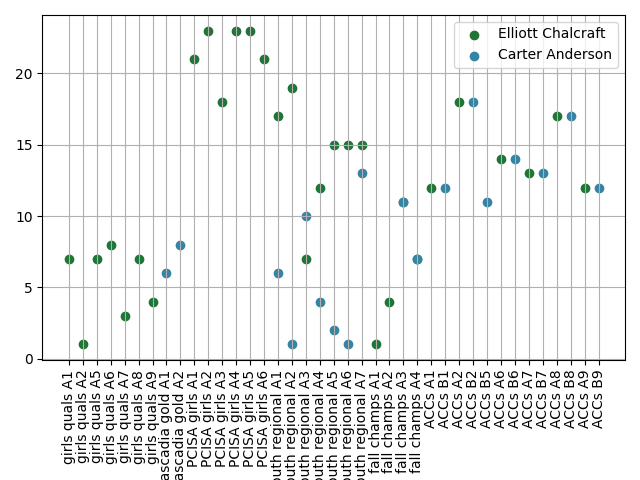
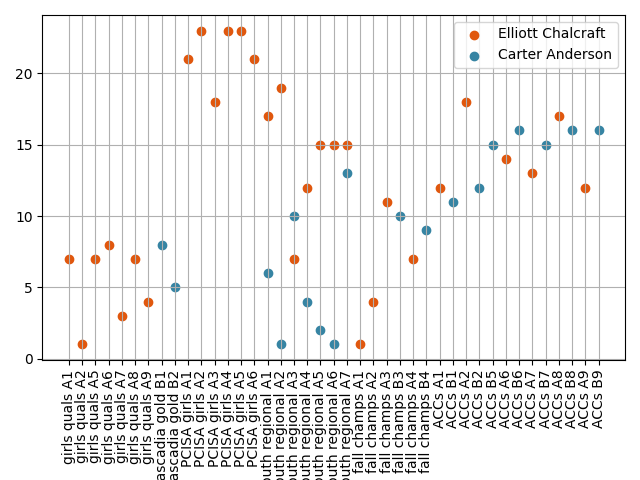
fixed data collection

Changed region(s): [[0.0938, 0.0312, 0.9688, 1.0], [0.9062, 0.375, 0.9688, 0.4062]]

diff --git a/graphwhy.py b/graphwhy.py
@@ -196,10 +196,10 @@ for i, regatta in enumerate(regatta_names):
                     'td', class_="skipper")
                 races = skipper2.next_sibling.text.split(",")
                 races = [i.split("-", 1) for i in races]
-                addPerson(skipper2.text.split(" '")[0],"Skipper",'B', teamHome, races, teamAScores, teamHomes, betterVenue)
+                addPerson(skipper2.text.split(" '")[0],"Skipper",'B', teamHome, races, teamBScores, teamHomes, betterVenue)
             races = skipper.next_sibling.text.split(",")
             races = [i.split("-", 1) for i in races]
-            addPerson(skipper.text.split(" '")[0],"Skipper",'A', teamHome, races, teamAScores, teamHomes, betterVenue)
+            addPerson(skipper.text.split(" '")[0],"Skipper",'B', teamHome, races, teamBScores, teamHomes, betterVenue)
 
         for crew in teamNameEl.parent.find_all('td', class_="crew"):
             races = crew.next_sibling.text.split(",")
@@ -210,14 +210,14 @@ for i, regatta in enumerate(regatta_names):
                     'td', class_="crew")
                 races = crew2.next_sibling.text.split(",")
                 races = [i.split("-", 1) for i in races]
-                addPerson(crew2.text.split(" '")[0],"Crew",'B', teamHome, races, teamAScores, teamHomes, betterVenue)
+                addPerson(crew2.text.split(" '")[0],"Crew",'B', teamHome, races, teamBScores, teamHomes, betterVenue)
 
                 if crew2.parent.next_sibling and crew2.parent.next_sibling.find_all('td', class_="crew"):
                     crew3 = crew2.parent.next_sibling.find(
                         'td', class_="crew")
                     races = crew3.next_sibling.text.split(",")
                     races = [i.split("-", 1) for i in races]
-                    addPerson(crew3.text.split(" '")[0],"Crew",'B', teamHome, races, teamAScores, teamHomes, betterVenue)
+                    addPerson(crew3.text.split(" '")[0],"Crew",'B', teamHome, races, teamBScores, teamHomes, betterVenue)
 
 def compare(first, second):
     # print("First", first, "Second", second)
@@ -237,7 +237,7 @@ def compare(first, second):
     else:
         return 0
 
-names = {"Elliott Chalcraft": "#1e7536", 'Carter Anderson':"#3684a3"}
+names = {"Elliott Chalcraft": "#e0570d", 'Carter Anderson':"#3684a3"}
 Type = "points"
 
 prev = 0
